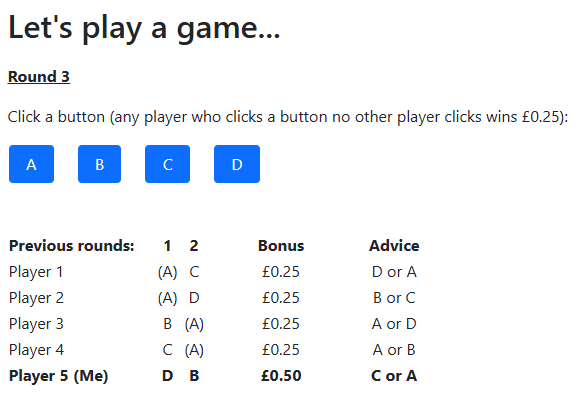
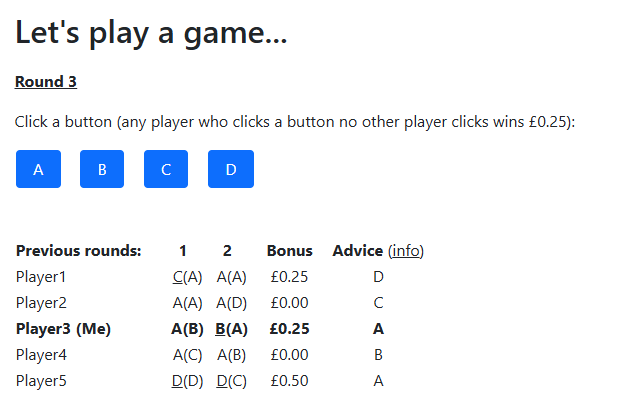
15 round of advice
Also adds radicaleq

diff --git a/Instructions/Instructions.html b/Instructions/Instructions.html
@@ -30,13 +30,16 @@
   <li>You must confirm your choice to earn any bonus.</li>
 </ul>
 <p>
-    You can see a section called <b>Previous rounds</b>. This shows the choices made by all participants in your group in the previous rounds, in order by player number. Some of them are in parentheses, which means they were selected by more than one person in that round.
+    You can see a section called <b>Previous rounds</b>. This shows the choices made by all participants in your group in the previous rounds (followed by advised choices in parentheses), in order by player number. Underlined choices were not selected by more than one person in that round. Note that the example shows random play, not typical play nor recommended play.
 </p>
 <p>
     In addition, an amount of money is shown next to each player. This reflects the accumulated bonus earned by each player up to (but not including) the current round, which is round 3 now.
 </p>
 <p>
-    <i>Note: The "Previous rounds" table always displays information for the last 8 completed rounds.</i>
+    Finally, advice is offered in rounds 1-16, suggesting a button for each player to pick next. The advice is generated by artificial intelligence which accounts for the full history of play to maximize efficiency and equity. This is the best-performing advice we have encountered. It is possible that you may achieve greater bonus without following this advice, but it optimizes outcomes only for those who follow the advice.
+</p>
+<p>
+    <i>Note: The "Previous rounds" table displays information only for the last 8 completed rounds, but rounds with advice will be hidden when advice is no longer offered.</i>
 </p>
 <p>
     This information is provided to help you track patterns and performance within your group as the game progresses.
@@ -48,11 +51,11 @@
     <b>Based on the example you have just read, if the players click the following buttons, which players would add &pound;0.25 to their bonus payment?</b>
     <br><br>
     <table>
-        <tr><td>&nbsp;&nbsp;&nbsp;&nbsp;</td><td>Player 1:</td><td style='text-align: center;'>D</td></tr>
-        <tr><td></td><td>Player 2:</td><td style='text-align: center;'>(B)</td></tr>
-        <tr><td></td><td>Player 3:</td><td style='text-align: center;'>C</td></tr>
-        <tr><td></td><td>Player 4:</td><td style='text-align: center;'>A</td></tr>
-        <tr><td></td><td>Player 5:</td><td style='text-align: center;'>(B)</td></tr>
+        <tr><td>&nbsp;&nbsp;&nbsp;&nbsp;</td><td>Player 1:</td><td style='text-align: center;'><u>D</u></td></tr>
+        <tr><td></td><td>Player 2:</td><td style='text-align: center;'>B</td></tr>
+        <tr><td></td><td>Player 3:</td><td style='text-align: center;'><u>C</u></td></tr>
+        <tr><td></td><td>Player 4:</td><td style='text-align: center;'><u>A</u></td></tr>
+        <tr><td></td><td>Player 5:</td><td style='text-align: center;'>B</td></tr>
     </table>
     <br><br>
     <b><i>Please re-read the study instructions above if you are not sure. You will have two opportunities to get this question correct.</i></b>
@@ -99,32 +102,32 @@
         </tr>
         <tr>
             <td style='width: 110pt'>Player 1</td>
-            <td style='width: 20pt; text-align: center;'>(A)</td>
-            <td style='width: 20pt; text-align: center;'>(C)</td>
+            <td style='width: 20pt; text-align: center;'>A</td>
+            <td style='width: 20pt; text-align: center;'>C</td>
             <td style='width: 35pt; text-align: center;'>?</td>
         </tr>
         <tr>
             <td style='width: 110pt'>Player 2</td>
+            <td style='width: 20pt; text-align: center;'><u>C</u></td>
             <td style='width: 20pt; text-align: center;'>C</td>
-            <td style='width: 20pt; text-align: center;'>(C)</td>
             <td style='width: 35pt; text-align: center;'>?</td>
         </tr>
         <tr>
-            <td style='width: 110pt'><b>Player 3</b></td>
-            <td style='width: 20pt; text-align: center;'><b>B</b></td>
-            <td style='width: 20pt; text-align: center;'><b>D</b></td>
+            <td style='width: 110pt'><b>Player 3 (Me)</b></td>
+            <td style='width: 20pt; text-align: center;'><b><u>B</u></b></td>
+            <td style='width: 20pt; text-align: center;'><b><u>D</u></b></td>
             <td style='width: 35pt; text-align: center;'><b>?</b></td>
         </tr>
         <tr>
             <td style='width: 110pt'>Player 4</td>
-            <td style='width: 20pt; text-align: center;'>(A)</td>
-            <td style='width: 20pt; text-align: center;'>(B)</td>
+            <td style='width: 20pt; text-align: center;'>A</td>
+            <td style='width: 20pt; text-align: center;'>B</td>
             <td style='width: 35pt; text-align: center;'>?</td>
         </tr>
         <tr>
             <td style='width: 110pt'>Player 5</td>
-            <td style='width: 20pt; text-align: center;'>D</td>
-            <td style='width: 20pt; text-align: center;'>(B)</td>
+            <td style='width: 20pt; text-align: center;'><u>D</u></td>
+            <td style='width: 20pt; text-align: center;'>B</td>
             <td style='width: 35pt; text-align: center;'>?</td>
         </tr>
     </table>

diff --git a/MADChairs/__init__.py b/MADChairs/__init__.py
@@ -9,7 +9,7 @@ class C(BaseConstants):
     BUFFER_INIT = 60
     TIMER_INCREMENT = 30
     MAX_TIME = 120
-    MAX_HISTORY_DISPLAY = 8
+    MAX_HISTORY_DISPLAY = {1:8, 16:8}
     PLAYER_LABEL = 'Player'
     ROBOT_LABEL = 'Bot'
     BUTTONS = ('A', 'B', 'C', 'D')
@@ -17,9 +17,10 @@ class C(BaseConstants):
     QUESTION_ROUNDS = (2,)
     QUESTION_TIMER = 120
     PRIZE = cu(0.25)
-    ADVICE = None
+    ADVICE = {1:'{turntaking}', 16: None}
     HIDE_CHAT = True
     HIDE_SKIP = True
+    ADVICE_INFO = "The advice is generated by artificial intelligence which accounts for the full history of play to maximize efficiency and equity. This is the best-performing advice we have encountered. It is possible that you may achieve greater bonus without following this advice, but it optimizes outcomes only for those who follow the advice."
 class Subsession(BaseSubsession):
     pass
 class Group(BaseGroup):
@@ -32,6 +33,25 @@ class Player(BasePlayer):
     debt = models.FloatField(initial=0)
     strategy = models.LongStringField(label='Considering rounds 1 and 2, explain briefly the thoughts behind your choices:')
     advice = models.StringField(blank=True)
+def makeMaxHistory(stored=None): 
+    def inner():
+        nonlocal stored
+        if stored is not None:
+            return stored 
+        shifts = C.MAX_HISTORY_DISPLAY if isinstance(C.MAX_HISTORY_DISPLAY, dict) else {1: C.MAX_HISTORY_DISPLAY}
+        if 1 not in shifts:
+            shifts[1] = 8
+        stored = {}
+        maxHist = 0
+        for round in range(1, C.NUM_ROUNDS + 1):
+            if round in shifts:
+                maxHist = shifts[round]
+                count = 0
+            stored[round] = min(count, maxHist)
+            count = count + 1
+        return stored
+    return inner
+maxHistory = makeMaxHistory()
 def makeOptions(stored=None): 
     def inner():
         nonlocal stored
@@ -117,6 +137,7 @@ def group_by_arrival_time_method(subsession, waiting_players):
             group_vars.eqViolations = {id: 0 for id in range(1, len(group_vars.ids_in_group) + 1)}
             group_vars.caste = casteStart(len(group_vars.ids_in_group)).copy()
             group_vars.equalize = group_vars.caste.copy()
+            group_vars.radicaleq = group_vars.caste.copy()
             extra_players = len(group_vars.ids_in_group) - len(C.BUTTONS)
             extra_options = [C.BUTTONS[0] if C.HIDE_SKIP else 'skip'] * extra_players 
             group_vars.turntaking = {index + 1: button for index, button in enumerate(extra_options + list(C.BUTTONS))}
@@ -152,6 +173,11 @@ def advice(player, adviceList=C.ADVICE):
             break
         advice = advice.replace(m.group(0), group_vars.equalize[shift(player, m.group(1)).id_in_group])
     while True:
+        m = re.search(r'\{radicaleq(\d*)\}', advice)
+        if m is None:
+            break
+        advice = advice.replace(m.group(0), group_vars.radicaleq[shift(player, m.group(1)).id_in_group])
+    while True:
         m = re.search(r'\{random(\d*)\}', advice)
         if m is None:
             break
@@ -175,14 +201,16 @@ def name(player):
 def historyHTML(player, summary=False): 
     historyHTML = ["<table><tr><td style='width: 110pt'>"]
     players = [p for id in player.participant.ids_in_group for p in player.subsession.get_players() if p.participant.id_in_session == id]
-    if len(players[0].in_previous_rounds()) > 0:
+    historyCap = maxHistory()[player.round_number]
+    if historyCap > 0 and len(players[0].in_previous_rounds()) > 0:
         historyHTML.extend(["<b>Previous rounds:</b>"])
-        history = players[0].in_all_rounds() if summary else players[0].in_previous_rounds()[-C.MAX_HISTORY_DISPLAY:]
+        history = players[0].in_all_rounds() if summary else players[0].in_previous_rounds()[-historyCap:]
         for hist in history:
-            historyHTML.extend(["</td><td style='width: 20pt; text-align: center;'><b>", str(hist.round_number), "</b>"])
+            historyHTML.extend(["</td><td style='text-align: center;'><b>", str(hist.round_number), "</b>"])
     historyHTML.extend(["</td><td style='width: 60pt; text-align: center;'><b>Bonus</b></td><td></td>"])
     if not summary and player.advice != "":
-        historyHTML.extend(["<td style='width: 60pt; text-align: center;'><b>Advice</b></td>"])
+        historyHTML.extend(["<td style='text-align: center;'><b>Advice</b> <span style='cursor:pointer' title='", 
+            C.ADVICE_INFO, "'>(<u>info</u>)</span></td>"])
     historyHTML.append("</tr>")
     payoffs = []
     for p in players:
@@ -190,16 +218,18 @@ def historyHTML(player, summary=False):
             historyHTML.extend(["<tr><td style='width: 110pt'><b>", name(p), " (Me)</b></td>"])
         else:
             historyHTML.extend(["<tr><td style='width: 110pt'>", name(p), "</td>"])
-        history = p.in_all_rounds() if summary else p.in_previous_rounds()[-C.MAX_HISTORY_DISPLAY:]
+        history = p.in_all_rounds() if summary else (p.in_previous_rounds()[-historyCap:] if historyCap > 0 else [])
         for hist in history:
             selection = [hist.selection]
-            if hist.selection != "skip" and [p.in_round(hist.round_number).selection for p in players].count(hist.selection) > 1:
-                selection = ["("] + selection + [")"]      
-            if not summary and p.id_in_group == player.id_in_group:
-                selection = ["<b>"] + selection + ["</b>"]
+            if hist.selection != "skip" and [p.in_round(hist.round_number).selection for p in players].count(hist.selection) < 2:
+                selection = ["<u>"] + selection + ["</u>"]      
             if hist.timedOut:
                 selection = ["<i>"] + selection + ["</i>"]
-            historyHTML.extend(["<td style='width: 20pt; text-align: center;'>"] + selection + ["</td>"])
+            if not summary and hist.advice in playerOptions():
+                selection = selection + ["(", hist.advice, ")"]
+            if not summary and p.id_in_group == player.id_in_group:
+                selection = ["<b>"] + selection + ["</b>"]
+            historyHTML.extend(["<td style='text-align: center;'> &nbsp;"] + selection + ["&nbsp;</td>"])
         timeouts = sum([int(hist.timedOut) for hist in p.in_all_rounds()])
         total_payoff = sum([hist.payoff for hist in p.in_all_rounds()])
         payoffs.append(total_payoff)
@@ -216,14 +246,14 @@ def historyHTML(player, summary=False):
             historyHTML.extend(["<td></td>"])
         if not summary and player.advice != "":    
             if p.id_in_group == player.id_in_group:
-                historyHTML.extend(["<td style='width: 60pt; text-align: center;'><b>", p.advice, "</b></td>"])
+                historyHTML.extend(["<td style='text-align: center;'><b>", p.advice, "</b></td>"])
             else:
-                historyHTML.extend(["<td style='width: 60pt; text-align: center;'>", p.advice, "</td>"])    
+                historyHTML.extend(["<td style='text-align: center;'>", p.advice, "</td>"])    
         historyHTML.append("</tr>") 
     historyHTML.append("</table>") 
     if summary:
         historyHTML.extend(["<br><div style='text-align: center;'>Social utility=<b>", str(sum(payoffs))])
-        historyHTML.extend(["&nbsp;&nbsp;&nbsp;&nbsp;&nbsp;&nbsp;&nbsp;</b>Disparity=<b>", str(max(payoffs)-min(payoffs)),"</b></div>"])      
+        historyHTML.extend(["&nbsp;&nbsp;&nbsp;&nbsp;&nbsp;&nbsp;&nbsp;</b>Disparity=<b>", str(max(payoffs)-min(payoffs)),"</b></div>"])  
     return "".join(historyHTML)
 def makeButtons(stored=None): 
     def inner():
@@ -360,6 +390,7 @@ def updateStrategies(players, group_vars):
     equal_players = learners + [p for p in win_sorted_players if p not in learners]
     extra_buttons = [(sorted_buttons[-1] if C.HIDE_SKIP else ('skip',))] * extra_players
     group_vars.equalize = {id: (sorted_buttons + extra_buttons)[i][0] for i, id in enumerate(equal_players)}
+    group_vars.radicaleq = {id: (sorted_buttons + extra_buttons)[i][0] for i, id in enumerate(win_sorted_players)}
     # caste
     debt_sorted_players = [id_in_group for debt, id_in_group in sorted([(-p.debt, p.id_in_group) for p in players])]
     learners = [p for p in debt_sorted_players if group_vars.casteViolations[p] < 1] 
@@ -379,12 +410,12 @@ class Strategy(Page):
     def is_displayed(player: Player):
         participant = player.participant
         group_vars = player.group.get_player_by_id(1).participant
-        if group_vars.finished:
+        if isinstance(group_vars.finished, set):
             group_vars.finished.add(participant.id_in_session)
-        if group_vars.finished and (len(group_vars.finished) >= len(group_vars.ids_in_group)):
-            group_vars.finished = None
-            players = [p for id in participant.ids_in_group for p in player.subsession.get_players() if p.participant.id_in_session == id] 
-            updateStrategies(players, group_vars)
+            if (len(group_vars.finished) >= len(group_vars.ids_in_group)):
+                group_vars.finished = None
+                players = [p for id in participant.ids_in_group for p in player.subsession.get_players() if p.participant.id_in_session == id] 
+                updateStrategies(players, group_vars)
         return player.round_number in C.QUESTION_ROUNDS and not participant.disconnected and participant.robot == ""
     @staticmethod
     def get_timeout_seconds(player: Player):

diff --git a/GroupPlayers/__init__.py b/GroupPlayers/__init__.py
@@ -30,6 +30,9 @@ def make_robots(stored=None):
     return robot_return
 robot_list = make_robots()
 def group_by_arrival_time_method(subsession, waiting_players):
+    ids = waiting_players[0].participant.vars.get('ids_in_group')
+    if ids:
+        return [p._get_current_player() for id in ids for p in subsession.session.get_participants() if p.id_in_session == id]
     robots = robot_list()
     if len(waiting_players) >= (C.PLAYERS_PER_GROUP - len(robots) + robots.count(None)):
         parts = subsession.session.get_participants()
@@ -42,7 +45,7 @@ def group_by_arrival_time_method(subsession, waiting_players):
             players.append(player)
             if robots:
                 robot = robots.pop(0)
-        while len(players) < C.PLAYERS_PER_GROUP:    
+        while len(players) < C.PLAYERS_PER_GROUP: 
             if robot is None:
                 player = waiting_players.pop(0)
                 player.participant.robot = ""

diff --git a/settings.py b/settings.py
@@ -5,7 +5,7 @@ LANGUAGE_CODE = 'en'
 REAL_WORLD_CURRENCY_CODE = 'GBP'
 USE_POINTS = False
 DEMO_PAGE_INTRO_HTML = ''
-PARTICIPANT_FIELDS = ['time', 'skill_rating', 'disconnected', 'disconnectChecked', 'finished', 'wait_seconds', 'ids_in_group', 'robot', 'overwaited', 'popularity', 'turntaking', 'caste', 'equalize', 'turnViolations', 'casteViolations', 'eqViolations']
+PARTICIPANT_FIELDS = ['time', 'skill_rating', 'disconnected', 'disconnectChecked', 'finished', 'wait_seconds', 'ids_in_group', 'robot', 'overwaited', 'popularity', 'turntaking', 'caste', 'equalize', 'radicaleq', 'turnViolations', 'casteViolations', 'eqViolations']
 SESSION_FIELDS = ['prolific_completion_url', 'prize', 'max_social']
 ROOMS = [dict(name='mc', display_name='mc')]
 

diff --git a/Instructions/__init__.py b/Instructions/__init__.py
@@ -22,7 +22,7 @@ def creating_session(subsession: Subsession):
             part = player.participant
             part.time = time.time()
             part.robot = ""
-            part.skill_rating = trueskill.Rating(mu=25, sigma=1.7)
+            part.skill_rating = trueskill.Rating(mu=25, sigma=0.5)
             part.disconnected = False
             part.overwaited = False
 class Start(Page):

diff --git a/README.md b/README.md
@@ -3,6 +3,8 @@ Code for an [oTree](https://otree.readthedocs.io/en/latest/index.html) server to
 
 ![screenshot](https://github.com/ChrisSantosLang/MADChairs/blob/main/Media/advice.png?raw=true)
 
+The "Advice" column in the bottom section is optional (and can show each player multiple recommendations). Each previous selection is followed by what was advised (in parentheses) to that player for that round and is underlined if no other player clicked the same button in that round. The "Bonus" column displays each player's accumulated winnings thus far.
+
 ## Installation
 This is the complete code for an app which could be [hosted on Heroku](https://otree.readthedocs.io/en/latest/server/heroku.html) (that's [how we used it](https://papers.ssrn.com/sol3/papers.cfm?abstract_id=5599171)). You can establish OTREE_ADMIN_PASSWORD in Heroku Dashboard via Settings > Config Vars, then use that password to create a room when you access the app via its URL. Connecting this app to [Prolific](https://www.prolific.com/) required establishing OTREE_COMPLETION_URL in the same way (copied from your Prolific study) and copying the room URL into your Prolific study.
 
@@ -13,12 +15,13 @@ In `GroupPlayers`, it can be useful to adjust these constants:
 * `PLAYERS_PER_GROUP` (default `5`): The number of players (should be at least 5 for four buttons)
 * `WAIT_LIMIT` (default `1200`): Maximum seconds in the wait room before a player is automatically advanced to the alternate ending
 * `ROBOTS` (default `None`): Specifies which players to replace with robots of which kinds. For example `{2: "A"}` would replace Player2 with a robot that always selects "A". `"default"` refers to all players not otherwise named, so `{"default": "A", 2: None, 3: "B"}` would replace Player3 with a robot that always selects "B", would leave Player2 human, and replace all other players with robots that always select "A". If ROBOTS is not specified as a dictionary, then it is assumed to be specifying a default, so `"A"` is equivalent to `{"default": "A"}`. If all players are replaced with robots, then a simulation will be triggered as soon as any player hits the waiting room (so it can be handy to combine such settings with `SKIP_PREGAME = True`). 
-  * `{turntaking}` will be replaced by selections that reserve a unique button for each player with *lowest* debt as described [here](https://arxiv.org/abs/2503.20986). 
+  * `{random}` will be replaced by a random valid selection. If an integer N > 0 is appended (e.g. `{random1}`), and the player lost the last round, then it will have 1/N probability of shifting to a random button not selected in the previous round (or selected only once, if all buttons were selected); otherwise the selection will repeat. `{random3}` may be an idealized version of initial observed human play.
   * `{caste}` will be replaced by selections that reserve a unique button for each player with *highest* debt as described [here](https://arxiv.org/abs/2503.20986). 
-  * `{equalize}` will be replaced by selections that reserve a unique button for each of the *poorest* players. 
-  * `{rotate}` will be replaced by the initial caste selections rotated N positions per round. If no positive integer N is appended (e.g. `{rotate1}`), then N is assumed to be 1.
-  * `{random}` will be replaced by a random valid selection. If an integer N > 0 is appended (e.g. `{random1}`), and the player lost the last round, then it will have 1/N probability of shifting to a random button not selected in the previous round (or selected only once, if all buttons were selected); otherwise the selection will repeat. 
-  * `{obey}` will be replaced by whatever advice was given to that robot (see ADVICE below). If a positive integer N is appended (e.g. `{obey1}`) it will be relaced by the advice assigned to the player with N higher ID.
+  * `{turntaking}` will be replaced by selections that reserve a unique button for each player with *lowest* debt as described [here](https://arxiv.org/abs/2503.20986). 
+  * rotate is the kind of turn-taking that is unresponsive to deviation. `{rotate}` will be replaced by the initial caste selections rotated 1 position per round. If a positive integer N is appended (e.g. `{rotate2}`), then it will rotate N positions per round.
+  * `{radicaleq}` will be replaced by selections that reserve a unique button for each of the *poorest* players (i.e., whichever players have the highest bonus thus far are assigned to lose a given round). 
+  * `{equalize}` is like radicaleq except that deviants are (temporarily) excluded from the list of poorest players. Any history of deviance is gradually forgotten, so any player can rejoin the list by repeatedly following the equalize strategy, but keeping track of who to punish (like keeping track of debt used in caste and turntaking strategies) may require the help of a computer.   
+  * `{obey}` will be replaced by whatever advice was given to that robot (see ADVICE below). 
   * Invalid selections will be relaced with random valid selections.
 
 To specify different selections for different rounds, specify a sequence of selections through which to cycle like `("A", "B", "C")` or use an inner-dictionary to specify the round number in which to switch to a selection like `{4: {4: "B"}}`, which would be equivalent to `{4: ("{obey}", "{obey}", "{obey}", "B", "B", B", "B",`... When using an inner-dictionary, there must be an outer dictionary (which may require specifying `"default"`), and `"{obey}"` will be assumed for round 1 if no other selection is specified. As examples, `{3: {3: "D", 4: "D", 5: "{obey}"}, "default": "{obey}"}` was used to run the following experiments measuring the consequences of a "tremble" (by Player 3) when following the advice of `"{rotate}"`, `"{caste}"`, `"{equalize}"`, or `"{turntaking}"`:
@@ -37,11 +40,11 @@ The following table shows the average portion of maximum bonus accumulated in a 
 In `MADChairs/__init__.py`, it can be useful to adjust the following constants:
 * `NUM_ROUNDS` (default `20`): How many rounds to repeat the game
 * `BUTTONS` (default `('A', 'B', 'C', 'D')`: The button labels. This also determines the number and order of buttons
-* `HIDE_SKIP` (default `True`): Hides the ability to skip the round. Many real-world situations permit players to skip. Players can raise their average payout by coordinating to use this option, so it makes ADVICE and CHAT more compelling. 
+* `HIDE_SKIP` (default `True`): Hides the ability to skip the round. Many real-world situations permit players to skip. Players can raise their average payout by coordinating about skipping, so the option to skip makes ADVICE and CHAT more compelling. 
 * `ADVICE` (default `None`): What to display in the advice column of the history table (if anything). As with ROBOTS, a cycle or dictionary can be used to specify different advice in different rounds. For example, `{8: "Turn={turntaking}; Caste={caste}", 17: None}` would display the turn-taking and caste selections in rounds 8-16 formatted like "Turn=B; Caste=A".
 * `HIDE_CHAT` (default `True`): Hides the ability to chat with other players. Chat logs can be found on the main Data tab of oTree
 * `PRIZE` (default `cu(0.25)`): How many British pounds (or server currency) to award players who click a button no other player clicks
-* `MAX_HISTORY_DISPLAY` (default `8`): How many rounds of previous history to display 
+* `MAX_HISTORY_DISPLAY` (default `8`): How many rounds of previous history to display. This can be specified by round as a dictionary, but history is lost each time the max is reset, so `{1:8, 16:8}` would show eight previous rounds in rounds 9-15, but zero in round 16, 1 in round 17, and so forth. 
 * `PLAYER_LABEL` (default `'Player'`): The prefix for player IDs (e.g. "Player1")
 * `ROBOT_LABEL` (default `'Bot'`): The prefix when players are replaced with robots (e.g. "Bot1")
 * `MAX_TIME` (default `120`): The maximum number of seconds per round
@@ -55,7 +58,7 @@ In `MADChairs/__init__.py`, it can be useful to adjust the following constants:
 Data can be exported in Excel format. Some special data columns of note:
 * `participant.skill_rating`: The participant's [trueskill](https://trueskill.org/) rating at the end of the game
 * `participant.disconnected`: `1` if the participant was disconnected
-* `participant.overwaited`: `1` if the participant advanced th the alternate ending because theyr were in the waiting room too long
+* `participant.overwaited`: `1` if the participant advanced t0 the alternate ending because they were in the waiting room too long
 * `participant.payoff`: The participant's total winnings across all rounds
 * `participant.robot`: The type of robot replacing this player (if any)
 * `MADChairs.{round}.player.selection`: What the player selected in that round
